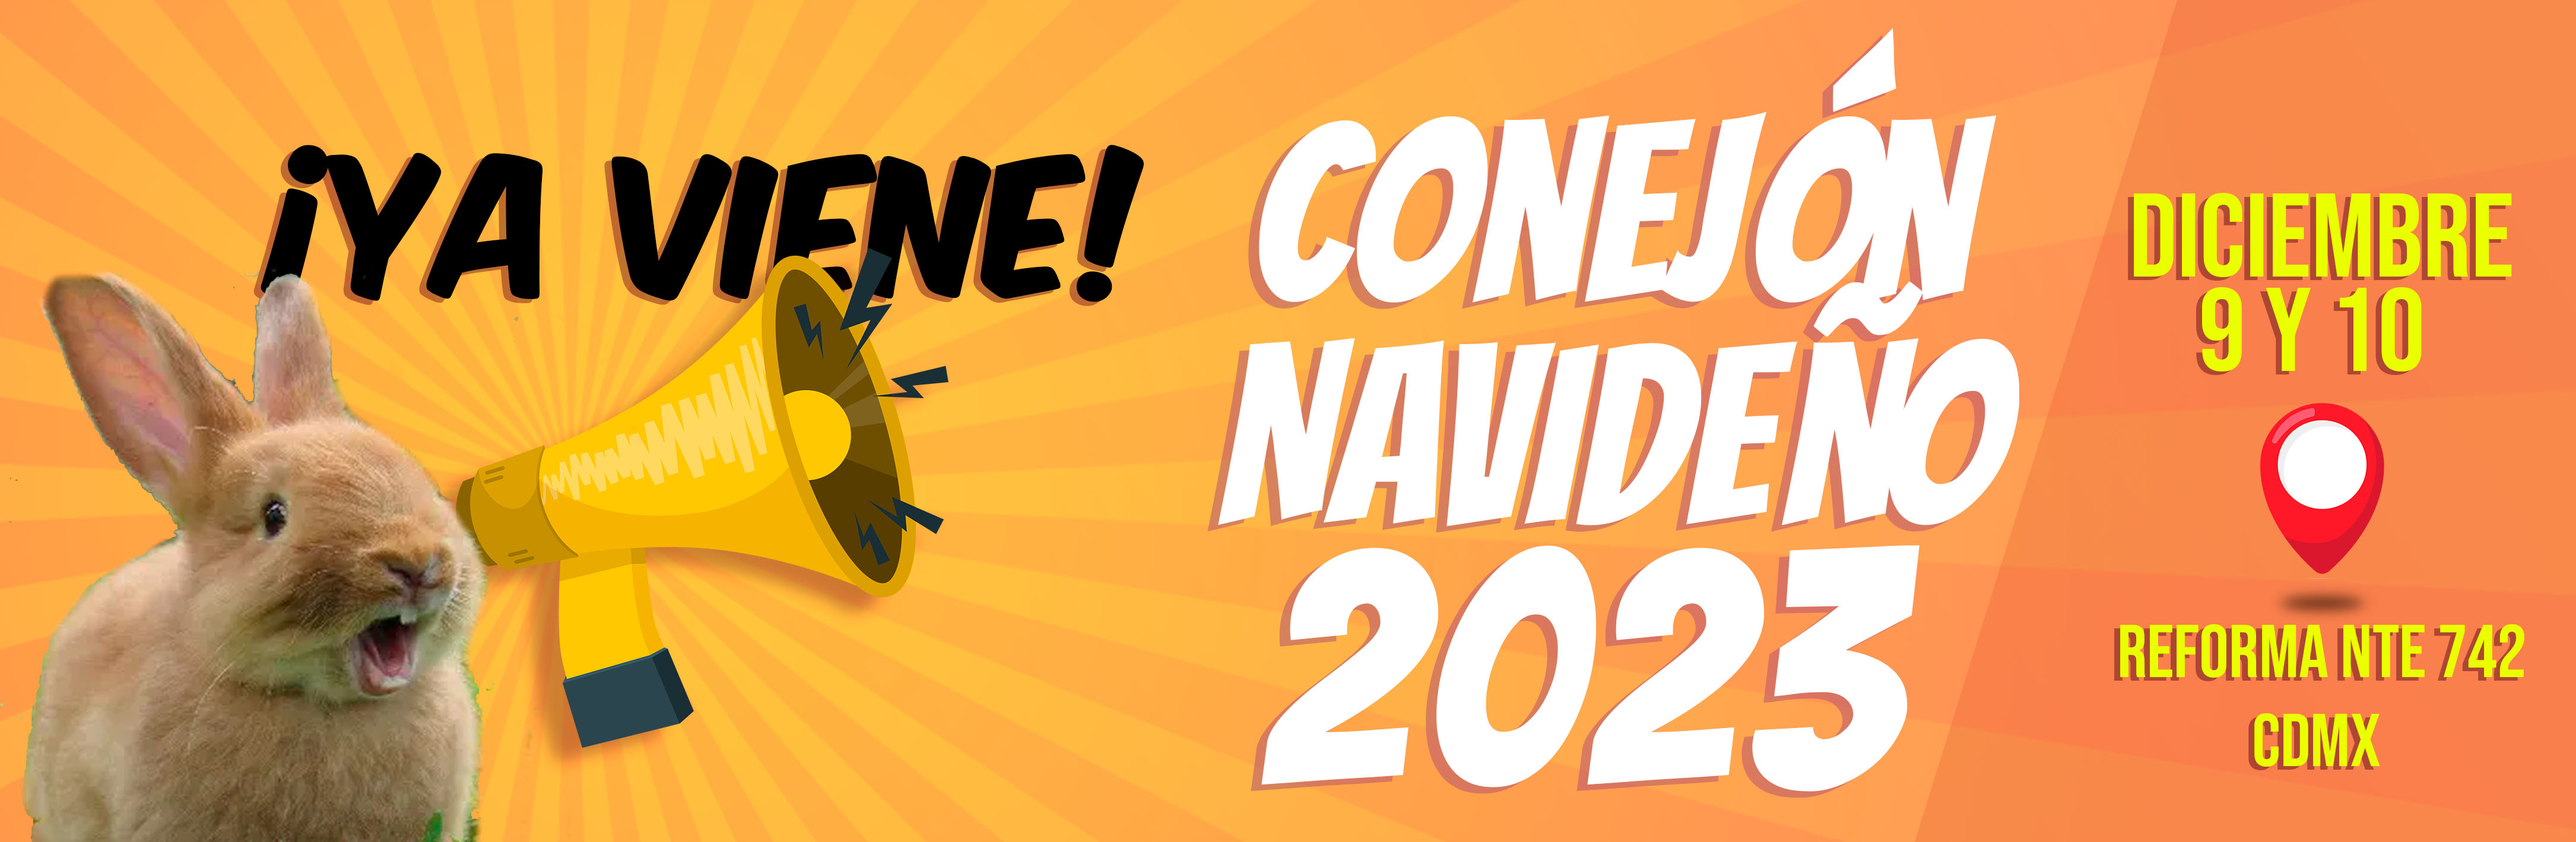
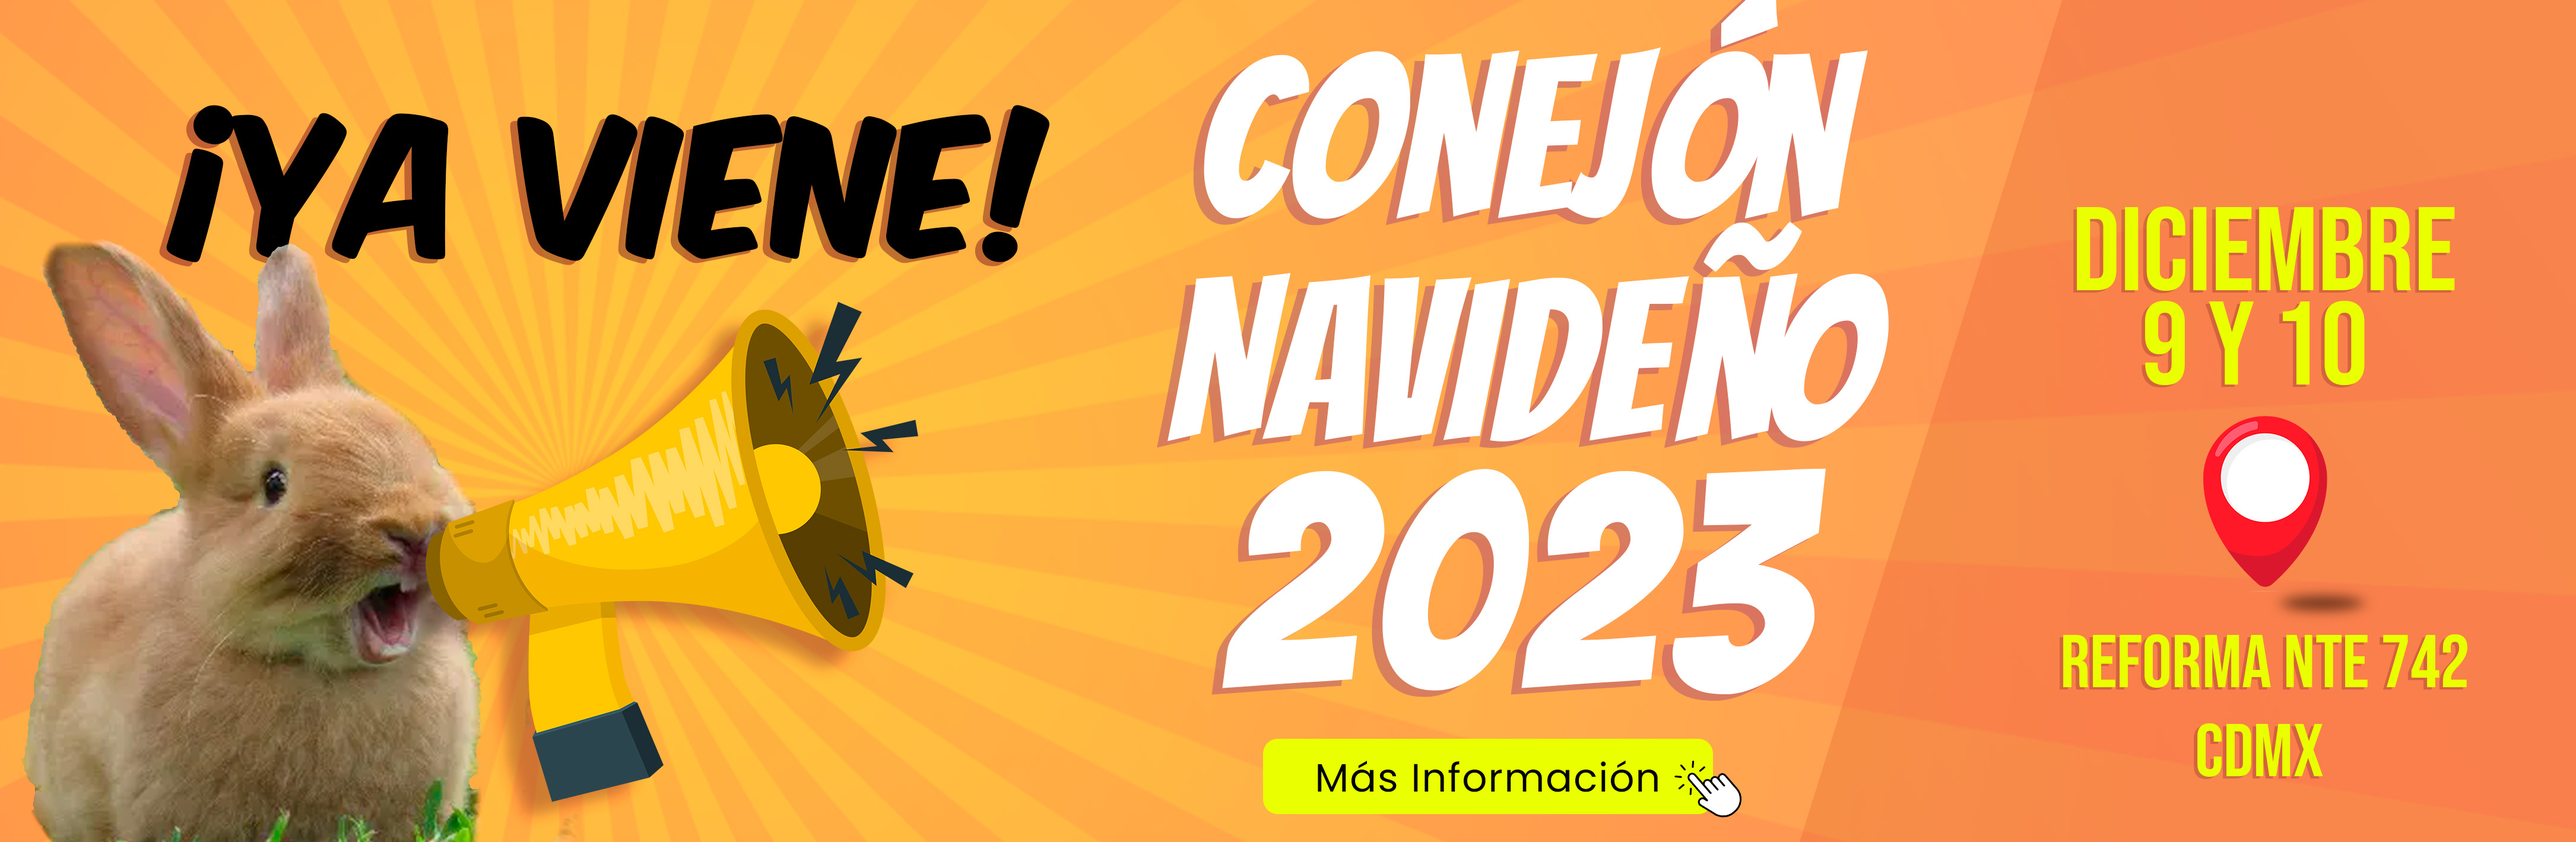
Landing

diff --git a/index.php b/index.php
@@ -124,7 +124,7 @@
                                 {
                                     ?>
                                     <a class="btn fw-500 ms-lg-1 mb-2 me-1 btn-outline-pink" href="login.php">
-                                        Iniciar sesión                          
+                                        Registrarme                       
                                     </a>  
                                     <?php
                                 }
@@ -177,8 +177,8 @@
                                         </div>
                                         
                                         <div class="d-flex flex-column flex-sm-row">
-                                            <a class="btn btn-lg f-poppins fa-beat btn-blue fw-500 fs-4 me-sm-3 mb-3 mb-sm-0" style="--fa-beat-scale: 0.9; --fa-animation-duration: 2s;" href="registro.php">
-                                                ¡Quiero asistir!
+                                            <a class="btn btn-lg f-poppins fa-beat btn-blue fw-500 fs-4 me-sm-3 mb-3 mb-sm-0" style="--fa-beat-scale: 1.1; --fa-animation-duration: 2s;" href="registro.php">
+                                                Registrarme
                                             </a>
                                             <a class="btn btn-lg btn-white fw-500" href="#evento">
                                                 Más información
@@ -201,7 +201,9 @@
                             <div class="row gx-5 justify-content-center">
                                 <div class="">
                                     <div class="mb-10 text-center" data-aos="fade-up">
-                                        <div class="display-3 f-bangers fw-400 text-uppercase text-white mb-2">El CONEJÓN NAVIDEÑO 2023<br><span class="f-poppins display-6">INICIA EN</span></div>
+                                        <img src="app/assets/img/banners/landing.jpg" class="img-fluid rounded-3 shadow-sm mb-5" alt="">
+                                        <!-- <div class="display-3 f-bangers fw-400 text-uppercase text-white mb-2">El CONEJÓN NAVIDEÑO 2023<br></div> -->
+                                        <span class="display-3 f-poppins fw-400 text-uppercase text-white mb-2">FALTAN</span>
                                         
                                         <div id="countdown">
                                             <ul class="f-poppins" style="color: #c7f50e;">
@@ -219,7 +221,7 @@
                                 </div>
                             </div>
 
-                            <div class="display-6 f-poppins text-white mb-3" data-aos="fade-up">
+                            <div class="display-3 f-bangers text-white mb-3" data-aos="fade-up">
                                 Encontrarás ...
                             </div>
 
@@ -330,15 +332,14 @@
                     </section>
 
                     <section class="bg-white pt-5 pb-10" style="background-color:;">
-                        <div class="container px-5">
+                        <div class="container px-5" data-aos="fade-up">
                             <div class="row gx-5 justify-content-center">
-                                <div class="col-lg-8">
-                                    <div class="text-center mb-10">
-                                        
-                                        <div class="f-bebas display-1 mb-3" style="color: #f17e76f3; text-shadow: 2px 2px 0px rgba(206, 190, 190, 0.653);"> 🛍 Tienda Oficial </div>
+                                <div class="col-12">
+                                    <div class="text-center mb-10">                                        
+                                        <!-- <div class="f-bebas display-1 mb-3" style="color: #f17e76f3; text-shadow: 2px 2px 0px rgba(206, 190, 190, 0.653);"> 🛍 Tienda Oficial </div> -->
                                         <!-- <p class="lead text-blue fw-500 fs-2">¡Encuentra todo para tus peluditos en la Tienda Oficial del Conejón!</p> -->
-                                        <img src="assets/img/proximamente.png" class="img-fluid rounded-3" alt="">
-                                        <div class="f-bangers display-6 mt-5 mb-3">¡Espérala pronto!</div>
+                                        <img src="app/assets/img/banners/2.jpg" class="img-fluid rounded-3" alt="">
+                                        <div class="f-bangers display-6 mt-5 mb-3" data-aos="fade-up">¡Espérala pronto!</div>
                                     </div>
                                 </div>
                             </div>

diff --git a/app/index.php b/app/index.php
@@ -198,14 +198,14 @@
                             <div class="col-xl-12 col-md-12 mb-4">
                                 <div class="">
                                     <div id="carouselExampleInterval" class="carousel carousel-dark slide carousel-fade" data-bs-ride="carousel">
-                                        <div class="carousel-inner">
+                                        <div class="carousel-inner rounded-3">
                                             
                                             <div class="carousel-item active" data-bs-interval="6000">
-                                                <a href="../"><img src="assets/img/banners/1.jpg" class="d-block w-100 rounded-3" alt="..."></a>
+                                                <a href="eventos.php/idEvento=cn2023"><img src="assets/img/banners/1.jpg?id=28" class="d-block w-100" alt="..."></a>
                                             </div>
 
                                             <div class="carousel-item" data-bs-interval="4000">
-                                                <a href="#"><img src="assets/img/banners/2.jpg" class="d-block w-100 rounded-3" alt="..."></a>
+                                                <a href="#"><img src="assets/img/banners/2.jpg" class="d-block w-100" alt="..."></a>
                                             </div>
                                              
                                         </div>
@@ -255,7 +255,7 @@
                             </div>
                             
                             <div class="col-lg-6 col-xl-6 mb-4">
-                                <div class="card bg-yellow text-white h-100">
+                                <div class="card bg-green text-white h-100">
                                     <div class="card-body">
                                         <div class="d-flex justify-content-between align-items-center">
                                             <div class="me-3">
@@ -269,7 +269,7 @@
                                     </div>
                                     <div class="card-footer d-flex align-items-center justify-content-between small">
                                             
-                                        <a class="text-white stretched-link" href="mis-ventas.php">Ver eventos  </a>
+                                        <a class="text-white stretched-link" href="eventos.php">Ver eventos</a>
                                         <div class="text-white"><i class="fas fa-angle-right"></i></div>
 
                                     </div>
@@ -277,8 +277,6 @@
                             </div>
                             
                         </div>                        
-
-                                              
 
                     </div>
 

diff --git a/app/src/footer.php b/app/src/footer.php
@@ -1,7 +1,7 @@
 <footer class="footer-admin mt-auto footer-light mb-5">
     <div class="container-xl px-4 mb-5 mt-4">
         <div class="row">
-            <div class="col-md-6 small fw-500">Copyright &copy; <span class="fw-600">VENDY <?php echo date("Y"); ?></div></span>
+            <div class="col-md-6 small fw-500">Copyright &copy; <span class="fw-600">Vendy PyME <?php echo date("Y"); ?></div></span>
             <div class="col-md-6 text-md-end small">
                 <!-- <a href="#!">Privacy Policy</a>
                 &middot;
